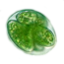
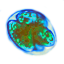
introduce grass into engulf

diff --git a/sandbox/engulf/run.py b/sandbox/engulf/run.py
@@ -20,12 +20,12 @@ Engulf is simulation containing:
 """
 from random import randint
 
-from sandbox.engulf.subject import Cell
+from sandbox.engulf.subject import Cell, Grass
 from synergine2.core import Core
 from synergine2.cycle import CycleManager
 from synergine2.terminals import TerminalManager, Terminal, TerminalPackage
 from synergine2.xyz import Simulation
-from synergine2.xyz import XYZSubjects
+from sandbox.engulf.simulation import EngulfSubjects
 
 
 class Engulf(Simulation):
@@ -50,40 +50,69 @@ class GameTerminal(Terminal):
         self.gui.run()
 
 
-def get_random_subjects(
-        simulation: Simulation,
-        count: int,
-        x_min: int,
-        y_min: int,
-        x_max: int,
-        y_max: int,
-) -> [Cell]:
-    cells = XYZSubjects(simulation=simulation)
+def fill_with_random_cells(
+    subjects: EngulfSubjects,
+    count: int,
+    start_position: tuple,
+    end_position: tuple,
+) -> None:
+    cells = []
 
     while len(cells) < count:
         position = (
-            randint(x_min, x_max+1),
-            randint(y_min, y_max+1),
-            0
+            randint(start_position[0], end_position[0]+1),
+            randint(start_position[1], end_position[1]+1),
+            randint(start_position[2], end_position[2]+1),
         )
-        if position not in cells.xyz:
-            cells.append(Cell(
-                simulation=simulation,
+        if position not in subjects.cell_xyz:
+            cell = Cell(
+                simulation=subjects.simulation,
                 position=position,
-            ))
+            )
+            cells.append(cell)
+            subjects.append(cell)
 
-    return cells
+
+def fill_with_random_grass(
+    subjects: EngulfSubjects,
+    start_count: int,
+    start_position: tuple,
+    end_position: tuple,
+    density: int=10,
+) -> None:
+    grasses = []
+
+    while len(grasses) < start_count:
+        position = (
+            randint(start_position[0], end_position[0]+1),
+            randint(start_position[1], end_position[1]+1),
+            randint(start_position[2], end_position[2]+1),
+        )
+        if position not in subjects.grass_xyz:
+            grass = Grass(
+                simulation=subjects.simulation,
+                position=position,
+            )
+            grasses.append(grass)
+            subjects.append(grass)
+
+        # TODO: density
 
 
 def main():
     simulation = Engulf()
-    subjects = get_random_subjects(
-        simulation,
+    subjects = EngulfSubjects(simulation=simulation)
+    fill_with_random_cells(
+        subjects,
         30,
-        -34,
-        -34,
-        34,
-        34,
+        (-34, -34, 0),
+        (34, 34, 0),
+    )
+    fill_with_random_grass(
+        subjects,
+        15,
+        (-34, -34, 0),
+        (34, 34, 0),
     )
     simulation.subjects = subjects
 

diff --git a/sandbox/engulf/gui.py b/sandbox/engulf/gui.py
@@ -2,7 +2,7 @@ from random import randint
 
 import cocos
 from cocos.sprite import Sprite
-from sandbox.engulf.subject import Cell
+from sandbox.engulf.subject import Cell, Grass
 from synergine2.terminals import TerminalPackage
 from synergine2_cocos2d.gui import Gui, GridLayerMixin
 from synergine2_cocos2d.gui import MainLayer as BaseMainLayer
@@ -22,11 +22,28 @@ class CellsLayer(GridLayerMixin, BaseMainLayer):
         self.add(cell)
 
 
-class MainLayer(GridLayerMixin, BaseMainLayer):
+class GrassLayer(GridLayerMixin, BaseMainLayer):
     def __init__(self, *args, **kwargs):
         super().__init__(*args, **kwargs)
-        self.cells = CellsLayer(terminal=kwargs.pop('terminal'))
+        self.cells = {}
+
+    def born(self, grid_position):
+        grass = Sprite('resources/grass.png')
+        self.grid_manager.scale_sprite(grass)
+        self.grid_manager.position_sprite(grass, grid_position)
+        self.cells[grid_position] = grass
+        self.add(grass)
+
+
+class MainLayer(GridLayerMixin, BaseMainLayer):
+    def __init__(self, terminal, *args, **kwargs):
+        super().__init__(terminal, *args, **kwargs)
+
+        self.cells = CellsLayer(terminal=terminal)
         self.add(self.cells)
+
+        self.grasses = GrassLayer(terminal=terminal)
+        self.add(self.grasses)
 
 
 class Game(Gui):
@@ -46,3 +63,6 @@ class Game(Gui):
                 if isinstance(subject, Cell):
                     self.positions[subject.id] = subject.position
                     self.main_layer.cells.born(subject.position)
+                if isinstance(subject, Grass):
+                    self.positions[subject.id] = subject.position
+                    self.main_layer.grasses.born(subject.position)

diff --git a/sandbox/engulf/simulation.py b/sandbox/engulf/simulation.py
@@ -1,0 +1,31 @@
+from sandbox.engulf.subject import Cell, Grass
+from synergine2.xyz import XYZSubjects, XYZSubjectMixin
+
+__author__ = 'bux'
+
+
+class EngulfSubjects(XYZSubjects):
+    def __init__(self, *args, **kwargs):
+        super().__init__(*args, **kwargs)
+        # TODO: accept multiple subjects as same position
+        # TODO: init xyz with given list
+        self.cell_xyz = {}
+        self.grass_xyz = {}
+
+    def remove(self, value: XYZSubjectMixin):
+        super().remove(value)
+
+        if isinstance(value, Cell):
+            del self.cell_xyz[value.position]
+
+        if isinstance(value, Grass):
+            del self.grass_xyz[value.position]
+
+    def append(self, p_object: XYZSubjectMixin):
+        super().append(p_object)
+
+        if isinstance(p_object, Cell):
+            self.cell_xyz[p_object.position] = p_object
+
+        if isinstance(p_object, Grass):
+            self.grass_xyz[p_object.position] = p_object

diff --git a/sandbox/engulf/subject.py b/sandbox/engulf/subject.py
@@ -3,10 +3,18 @@ from synergine2.xyz import XYZSubjectMixin
 
 COLLECTION_CELL = 'CELL'
 COLLECTION_ALIVE = 'ALIVE'
+COLLECTION_EATABLE = 'EATABLE'
 
 
 class Cell(XYZSubjectMixin, Subject):
     collections = [
         COLLECTION_CELL,
         COLLECTION_ALIVE,
+        COLLECTION_EATABLE,
+    ]
+
+
+class Grass(XYZSubjectMixin, Subject):
+    collections = [
+        COLLECTION_EATABLE,
     ]
